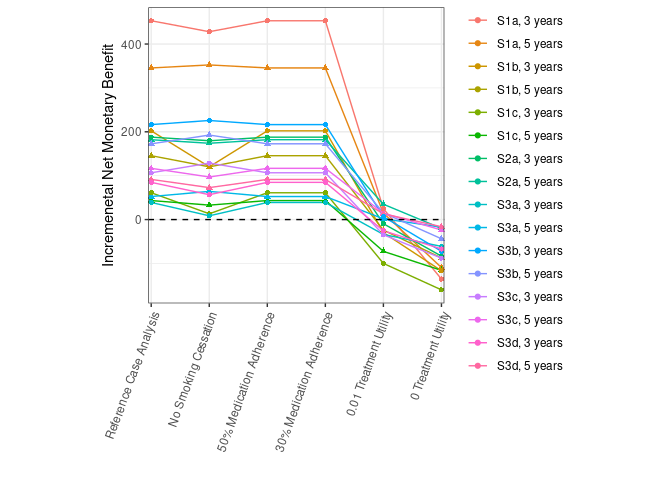
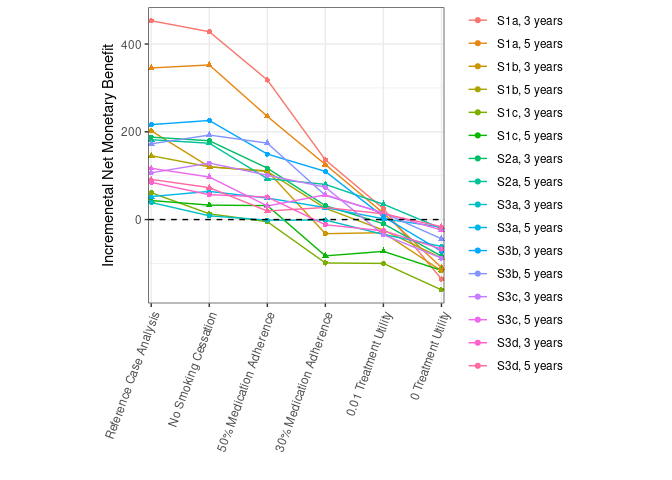
feat(reproduction): process sensitivity analysis following fix to scenarios for med adherence

diff --git a/reproduction/scripts/Process_Sensitivity_Analysis.md b/reproduction/scripts/Process_Sensitivity_Analysis.md
@@ -1,6 +1,6 @@
 Process Sensitivity Analysis Results
 ================
-18 October, 2024
+21 October, 2024
 
 This file processes results from the sensitivity analysis.
 
